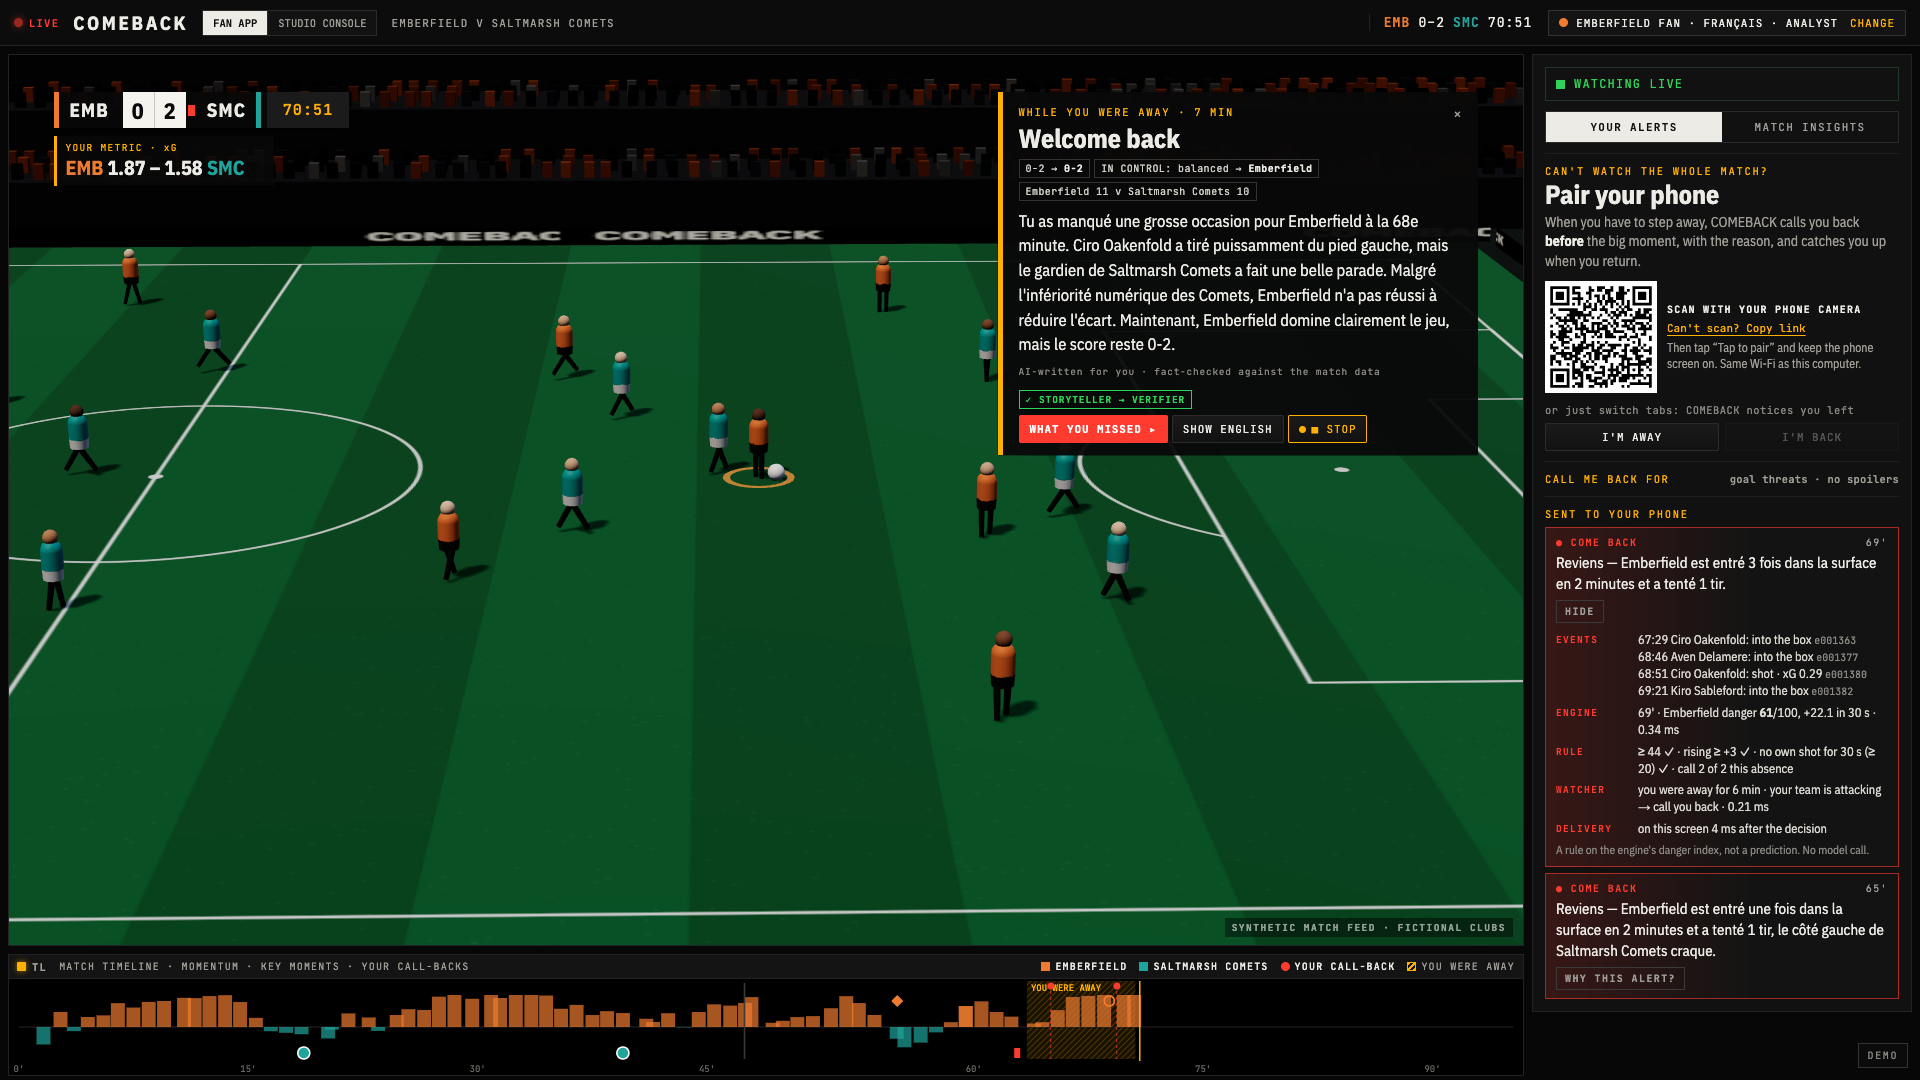
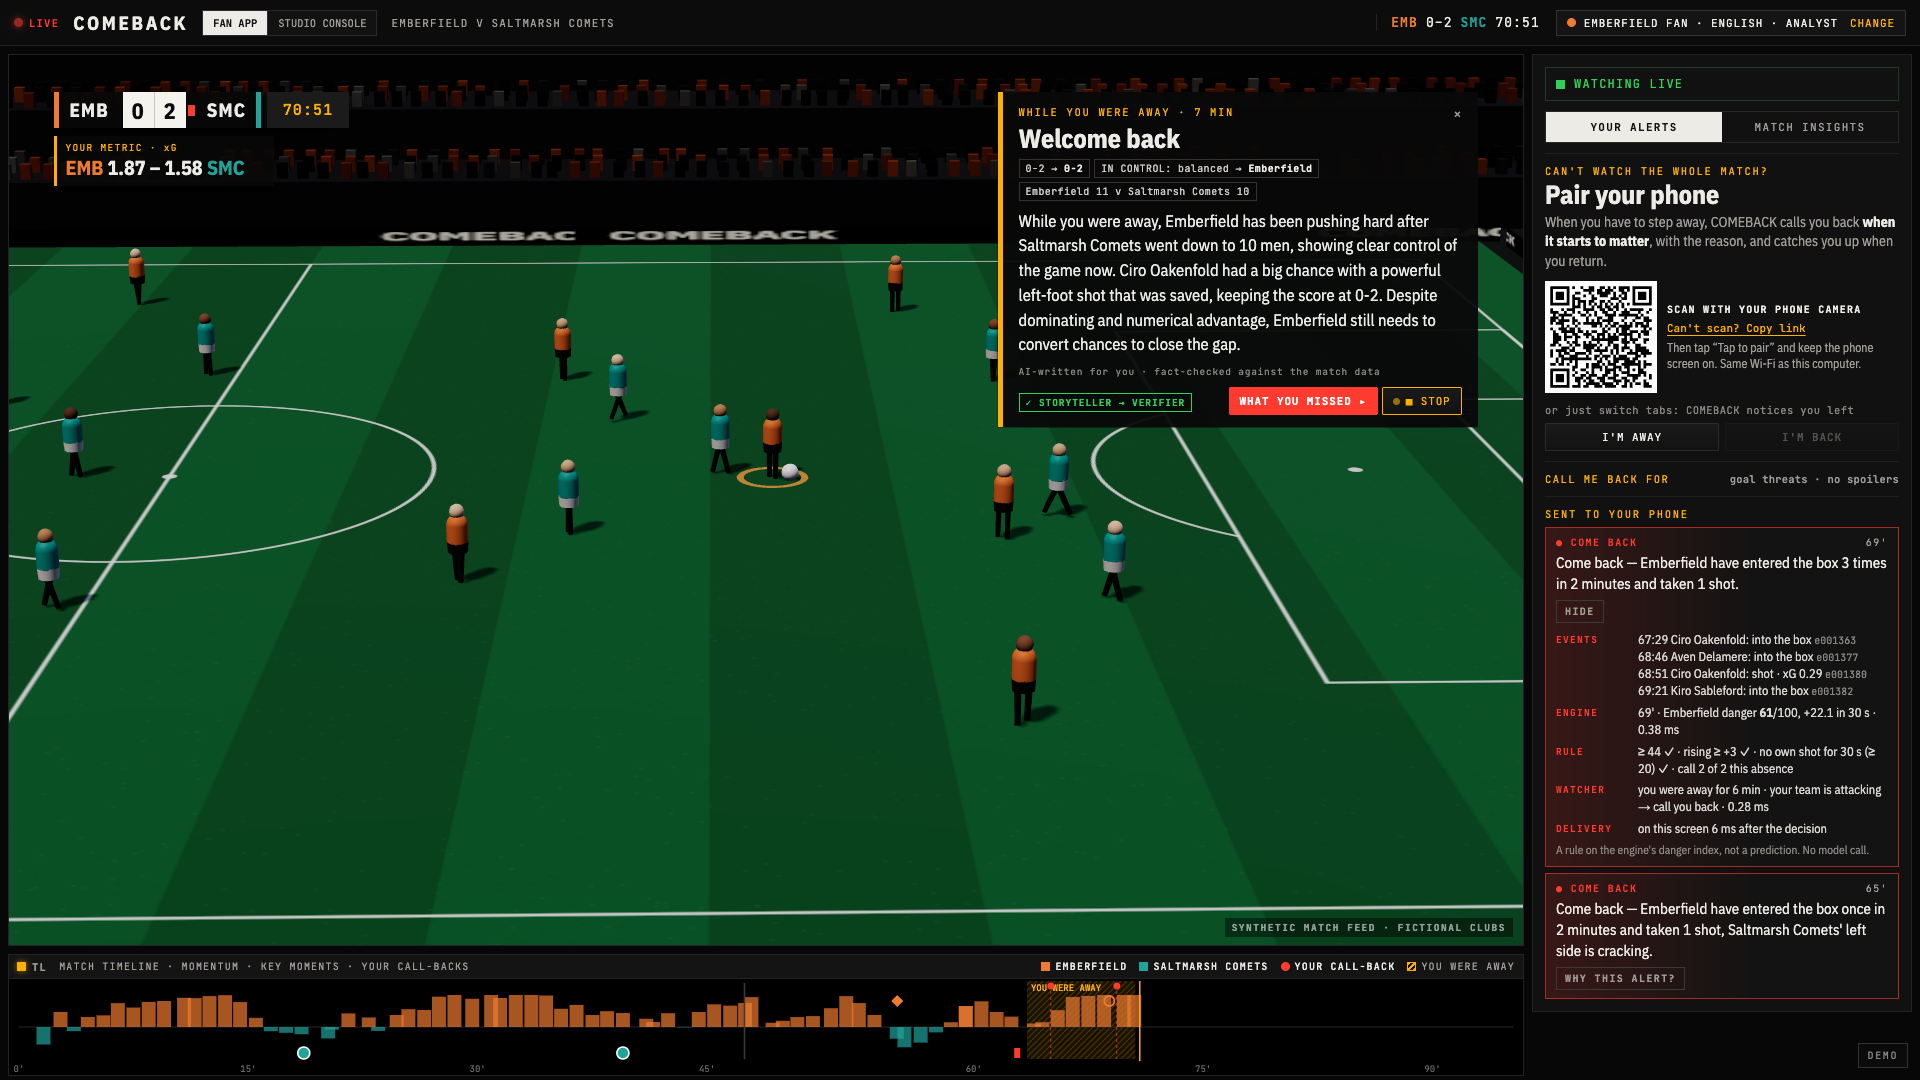
English-only README and captures, 'when it starts to matter' wording, links line

diff --git a/web/index.html b/web/index.html
@@ -40,8 +40,8 @@
       <div class="fan-home">
         <div class="su-k">COMEBACK · AI MATCH INSIGHTS FOR STREAMING AND STUDIO</div>
         <h1 class="su-h" id="su-h">Don't wait for the highlights. <em>Live them.</em></h1>
-        <p class="su-p">Can't watch the whole match? COMEBACK <b>watches it for you</b>, <b>calls you back</b> before the big
-          moment, with the reason, and <b>catches you up</b> on what changed when you return.</p>
+        <p class="su-p">Can't watch the whole match? COMEBACK <b>watches it for you</b>, <b>calls you back</b> when it starts
+          to matter, with the reason, and <b>catches you up</b> on what changed when you return.</p>
         <div class="su-row">
           <div class="su-n">1</div><div class="su-q">PICK A LIVE MATCH</div>
           <div class="su-opts live-list" data-field="match" id="su-matches"></div>
@@ -130,7 +130,7 @@
         <div class="synth-tag" aria-label="Synthetic match feed">SYNTHETIC MATCH FEED · FICTIONAL CLUBS</div>
         <div class="outage-badge" id="outage-badge" hidden><i></i>LLM OFFLINE · FAILURE DRILL · AGENTS ON VERIFIED TEMPLATES</div>
         <div class="away-strip" id="away-veil" hidden><i></i><b>YOU'RE AWAY · COMEBACK IS WATCHING FOR YOU</b>
-          <span>we'll call you back before the big moment</span></div>
+          <span>we'll call you back when it starts to matter</span></div>
       </div>
     </section>
 
@@ -146,7 +146,7 @@
       <section class="cp-block cp-pair">
         <div class="cp-k">CAN'T WATCH THE WHOLE MATCH?</div>
         <div class="cp-t">Pair your phone</div>
-        <p class="cp-p">When you have to step away, COMEBACK calls you back <b>before</b> the big moment, with the reason,
+        <p class="cp-p">When you have to step away, COMEBACK calls you back <b>when it starts to matter</b>, with the reason,
           and catches you up when you return.</p>
         <div class="pair" id="pair"></div>
         <div class="cp-or">or just switch tabs: COMEBACK notices you left</div>

diff --git a/web/js/phone.js b/web/js/phone.js
@@ -105,7 +105,7 @@ function renderScore() {
 function renderNotes() {
   $("#notes").innerHTML = st.notes.length ? st.notes.slice(0, 8).map((n) => `
     <div class="note ${n.kind}"><div class="nh"><b>${{ come_back: "● COME BACK", goal: "● GOAL", big_moment: "● BIG MOMENT", called_it: "✓ CALLED IT" }[n.kind] || n.kind}</b><span>${n.minute}'</span></div>
-    <div class="nx">${esc(n.text)}</div></div>`).join("") : `<div class="empty">Leave the match: COMEBACK will call you back before the big moment.</div>`;
+    <div class="nx">${esc(n.text)}</div></div>`).join("") : `<div class="empty">Leave the match: COMEBACK will call you back when it starts to matter.</div>`;
 }
 
 function takeover(n) {

diff --git a/web/phone.html b/web/phone.html
@@ -21,7 +21,7 @@
       <p class="pair-k">YOUR PHONE · FAN DEVICE</p>
       <h1>Put your phone away.<br>We'll tell you when it matters.</h1>
       <button class="big" id="pair-btn">TAP TO PAIR</button>
-      <p class="hint" id="pair-hint">Keep this screen open: COMEBACK will ring and speak before the big moments.</p>
+      <p class="hint" id="pair-hint">Keep this screen open: COMEBACK will ring and speak when it starts to matter.</p>
     </section>
 
     <section class="main" id="main" hidden>

diff --git a/web/js/pairing.js b/web/js/pairing.js
@@ -30,7 +30,7 @@ async function refresh() {
 function render() {
   const el = $("#pair");
   if (paired) {
-    el.innerHTML = `<div class="pr-ok"><i></i><span><b>PHONE PAIRED</b><small>It will ring before the big moments.</small></span></div>`;
+    el.innerHTML = `<div class="pr-ok"><i></i><span><b>PHONE PAIRED</b><small>It will ring when it starts to matter.</small></span></div>`;
     return;
   }
   const qr = window.qrcode ? window.qrcode(0, "M") : null;

diff --git a/README.md b/README.md
@@ -15,7 +15,9 @@ when you return.**
 Attention here means one thing: is the fan watching or away. It comes from the viewing app
 itself, opt-in. No camera, no microphone.
 
-![COMEBACK in 30 seconds: a fan sets up their match, steps away, gets called back before the goal with the reason, comes back to a replay, a spoken catch-up and the players who changed the game, then their full-time receipt and the studio's control room](docs/comeback.gif)
+**[Live demo](https://comeback.lemonforest-f9ddbdf8.switzerlandnorth.azurecontainerapps.io)** · **Video:** (link) · **The fan journey in English:** [https://comeback.lemonforest-f9ddbdf8.switzerlandnorth.azurecontainerapps.io/?as=fan&side=home&lang=en&match=demo-comeback](https://comeback.lemonforest-f9ddbdf8.switzerlandnorth.azurecontainerapps.io/?as=fan&side=home&lang=en&match=demo-comeback)
+
+![COMEBACK in 30 seconds: a fan sets up their match, steps away, gets called back when it starts to matter, with the reason, comes back to a replay, a spoken catch-up and the players who changed the game, then their full-time receipt and the studio's control room](docs/comeback.gif)
 
 ### Don't wait for the highlights. Live them.
 
@@ -27,7 +29,7 @@ viewers, not fewer. It never pushes someone who can watch to leave. One product,
 
 COMEBACK reads every event of the match live, explains why moments matter, and
 personalizes them for each fan (language, side, level, favourite player, one metric).
-Step away, and it calls you back **before** the big moment, with the reason; come back,
+Step away, and it calls you back **when it starts to matter**, with the reason; come back,
 and it replays what you missed, tells you what changed and shows **who changed the game**.
 At full time, your receipt: *"You were live for 3 of 3 goals, and caught up on 7 minutes
 away in 21 seconds."* (You left the match. COMEBACK didn't.)
@@ -71,12 +73,12 @@ No account, no key: it runs offline on recorded agent texts (see *Live vs record
 
 | | What happens | In the demo match |
 |---|---|---|
-| **Watch for me** | You step away (switch tab, press I'M AWAY, or your phone). A Watcher agent keeps watching for you, under your own rules: goal threats, equaliser or winner only, any big moment, or **only if this match gets good** (a quiet spell that comes alive); night mode. It knows your side, favourite player, level and language. | An Emberfield fan (French, analyst) steps away at 63', 0–2 down. |
-| **Call me back** | It calls you back **before** the moment, and says why. Your phone takes over the screen, rings, and reads the reason aloud. | 65' and 69': *"Reviens — Emberfield est entré 3 fois dans la surface en 2 minutes et a tenté 1 tir."* |
-| **Catch me up** | Spoiler-free: if a goal happened, your phone only said "something big happened"; the score waits for your replay. The TV rewinds: the moments you missed are replayed in 3D from behind the goal while a neural voice reads your "Previously on…" of what **changed**, sized to your absence. Then **What you missed**: the three players who changed the game, both teams then vs now (below). | 70': a catch-up in French, then the 71' goal, seen live. The phone confirms: *"COMEBACK l'avait senti : alerte à la 69e, but à la 71e."* |
+| **Watch for me** | You step away (switch tab, press I'M AWAY, or your phone). A Watcher agent keeps watching for you, under your own rules: goal threats, equaliser or winner only, any big moment, or **only if this match gets good** (a quiet spell that comes alive); night mode. It knows your side, favourite player, level and language. | An Emberfield fan (English, analyst) steps away at 63', 0–2 down. |
+| **Call me back** | It calls you back **when it starts to matter**, and says why. Your phone takes over the screen, rings, and reads the reason aloud. | Calls at 65' and 69'. At 69': *"Come back — Emberfield have entered the box 3 times in 2 minutes and taken 1 shot."* |
+| **Catch me up** | Spoiler-free: if a goal happened, your phone only said "something big happened"; the score waits for your replay. The TV rewinds: the moments you missed are replayed in 3D from behind the goal while a neural voice reads your "Previously on…" of what **changed**, sized to your absence. Then **What you missed**: the three players who changed the game, both teams then vs now (below). | 70': a spoken catch-up, then the 71' goal, seen live. The phone confirms: *"COMEBACK called it: alert at 69', goal at 71'. You were back in time."* |
 | **Full-time** | Your receipt (live goals, minutes watched, what your alerts were worth) and your own front page: the match told from your side. | *"You were live for all 3 goals, and caught up on 7 minutes away in 21 seconds."* |
 
-![The fan view: back at 70', the TV shows the French catch-up of what changed, with SHOW ENGLISH and LISTEN; next to the match, the phone pairing panel and the two call-backs sent before the goal](docs/screenshot.png)
+![The fan view: back at 70', the TV shows the English catch-up of what changed (also in French and Spanish), with WHAT YOU MISSED and the voice-over; next to the match, the phone pairing panel and the two call-backs sent before the goal, the 69' one unfolded in Why this alert?](docs/screenshot.png)
 
 Two products on one engine, side by side in the top bar. The **Fan app** (the default)
 opens on the matches **live now**: pick one, your side (or neutral, and optionally a player
@@ -157,8 +159,9 @@ Stricter or looser, at a glance (same held-out matches):
 | 65 | 9% | 30% | 0.8 |
 
 **"Only call me if this match gets good"** keeps the same rule but fires only after at least
-8 quiet minutes (both teams' danger below 35): on 40 unseen matches, about **1.9 calls per
-match** (against about 15 for the default rule, both teams), and at least one in 34 of them.
+8 quiet minutes (both teams' danger below 35): in a separate run on 40 other unseen matches
+(not the 50-match evaluation above), about **1.9 calls per match** for both teams together
+(against about 15 for the default rule), and at least one in 34 of them.
 
 Honest reading: most goals in our simulator come from short attacks, so many goals
 are not preceded by sustained pressure, and most alerts are not followed by a goal.
@@ -198,10 +201,10 @@ its trend (with the milliseconds the engine took), each condition of the rule, t
 decision for this fan (how long they had been away, which side they are on, and its own
 milliseconds), and how long the alert took to reach the screen. The 69' call in the demo:
 three box entries and a shot between 67:29 and 69:21 → danger 61/100, +22 in 30 s (engine
-0.9 ms) → threshold, trend, no own shot for 30 s, call 2 of 2 → the Watcher calls back a fan
-away for 6 minutes (1.7 ms) → on screen 7 ms later. A rule, not a prediction; no model call.
+0.38 ms) → threshold, trend, no own shot for 30 s, call 2 of 2 → the Watcher calls back a fan
+away for 6 minutes (0.28 ms) → on screen 6 ms later. A rule, not a prediction; no model call.
 
-![Why this alert? on the 69' call-back: the four events with their times and ids, the engine's danger 61/100 and +22.1 in 30 s computed in 0.91 ms, the rule's checks, the Watcher's decision in 1.7 ms, delivered 7 ms later](docs/why.png)
+![Why this alert? on the 69' call-back: the four events with their times and ids, the engine's danger 61/100 and +22.1 in 30 s computed in 0.38 ms, the rule's checks, the Watcher's decision in 0.28 ms, delivered 6 ms later](docs/why.png)
 
 ### Latency and load
 
@@ -342,6 +345,10 @@ LLM calls needed to serve the whole demo match, by audience size (`/api/scale`):
 | 50,000 | 1,515 | 158,631 |
 | 200,000 | **1,830** | **633,938** |
 
+The right-hand column is one call per catch-up (633,921 at 200,000 fans) plus the match's 17
+key-moment cards (633,938); the single agent below writes its cards inside each catch-up, so it
+needs 633,921.
+
 These are cost figures on the scripted demo match. They say nothing about how
 accurate the alerts are: that is measured separately, below. The audience is
 simulated once per match and shared by every viewer of that match (not once per
@@ -472,7 +479,7 @@ does, in your language and from your side.
 
 **For broadcasters and the official app (B2B2C):** COMEBACK is a layer they integrate, not
 one more app. It does not pull viewers away from the live feed; it brings back fans who
-had already left, before the peak moment, instead of sending a spoiler after it. In the
+had already left, when it starts to matter, instead of sending a spoiler after it. In the
 simulation, 882 of 10,000 fans were back in time for the 71' goal (assumption: 65% of
 called fans return; a real figure needs an A/B test in production).
 
@@ -509,7 +516,7 @@ and Verifier.
    You join where the match is: the TV replays the goals you missed while a neural voice
    tells the story so far, then **What you missed** shows the players who made it. Then you
    watch live. When you have to step away, switch browser tab or press **I'M AWAY**: COMEBACK
-   calls you back before the big moment (pair your phone with the QR code to get the call
+   calls you back when it starts to matter (pair your phone with the QR code to get the call
    on it), and catches you up when you return. On the quiet match, try **Only call me if it
    gets good**. **CHANGE** (top bar) switches side, player, language or style without
    restarting the match.
@@ -604,8 +611,8 @@ flowchart LR
 **Business model (B2B2C).** COMEBACK is a layer that broadcasters, streaming platforms and
 the official app integrate, not one more app for fans: an SDK and API for presence-aware
 call-backs, catch-ups and overlay cues, priced per match or per active viewer. Its value
-for the integrator is live minutes and ad inventory: fans who had left come back before
-the peak moment.
+for the integrator is live minutes and ad inventory: fans who had left come back when it
+starts to matter.
 
 **Cost per match at 200,000 fans** (demo match, list prices): about **1,830 LLM calls ≈ $0.61**
 (cards written once, stories shared by fans with the same moments, language, level, side
@@ -754,8 +761,8 @@ question: it watches the match for you and comes to you when it starts to matter
 
 They show the need. But recaps wait for the fan to ask (or to join late), and
 excitement alerts are about a whole game, for everyone. COMEBACK starts from the
-fan's own attention: it notices that *you* left, calls *you* back *before* the
-moment, from *your* club's side, and tells *you* what you missed. We don't claim
+fan's own attention: it notices that *you* left, calls *you* back *when it starts to
+matter*, from *your* club's side, and tells *you* what you missed. We don't claim
 to be first; we combine these ideas around presence, at a cost that doesn't grow
 with the audience.
 
